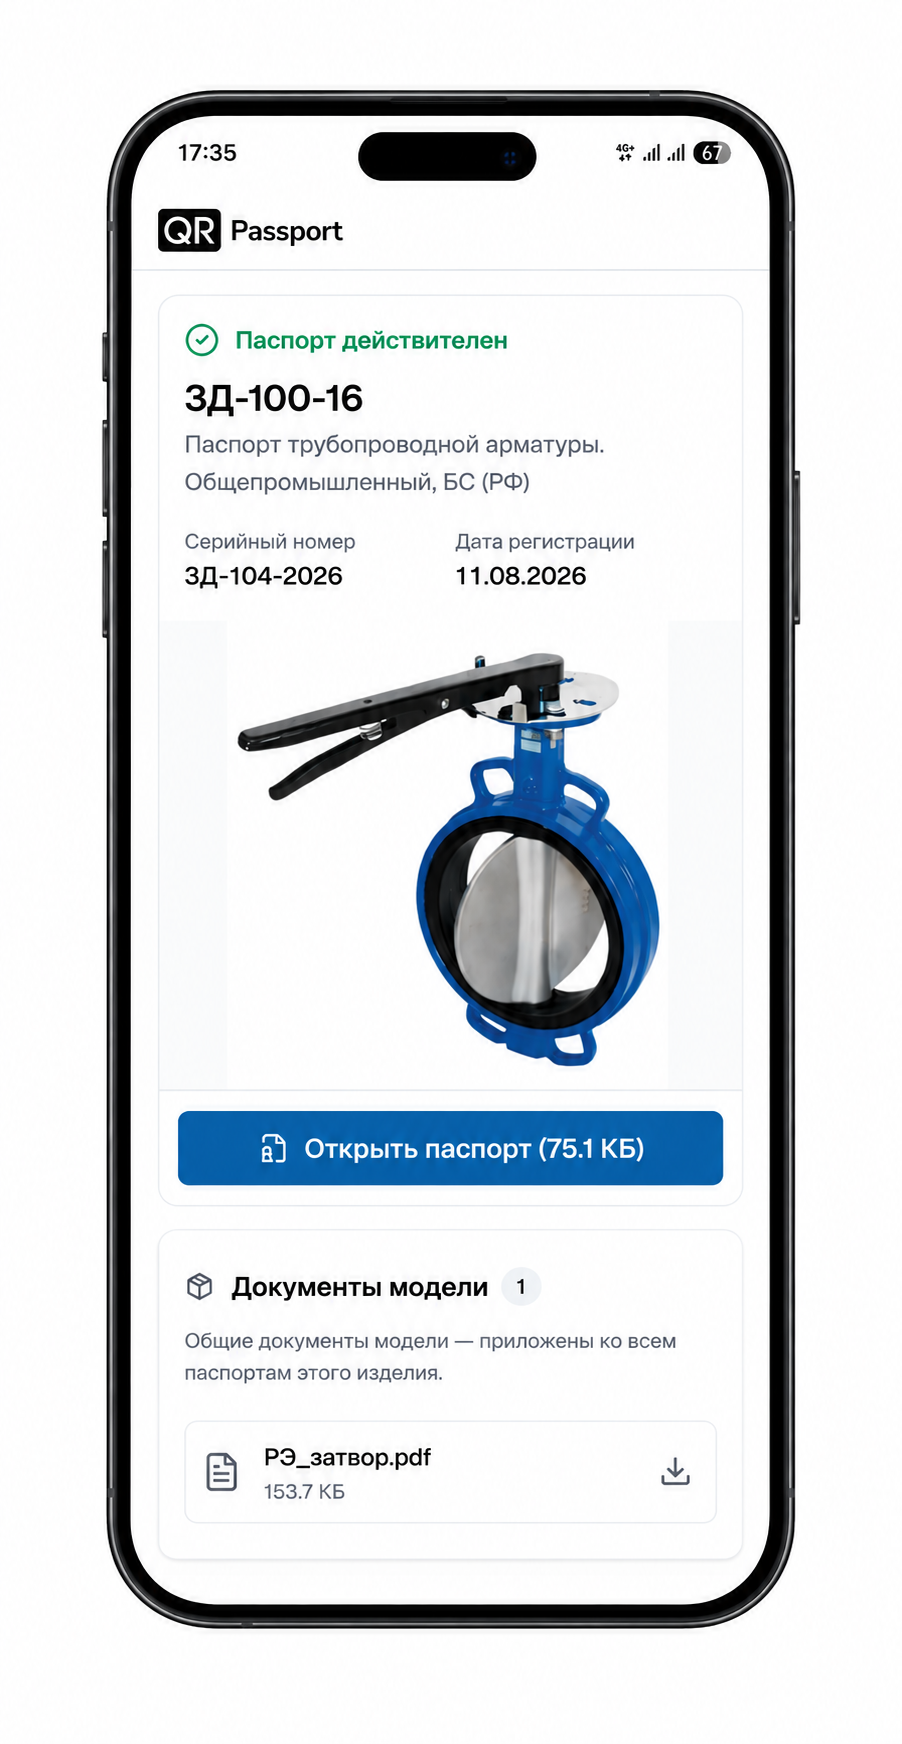
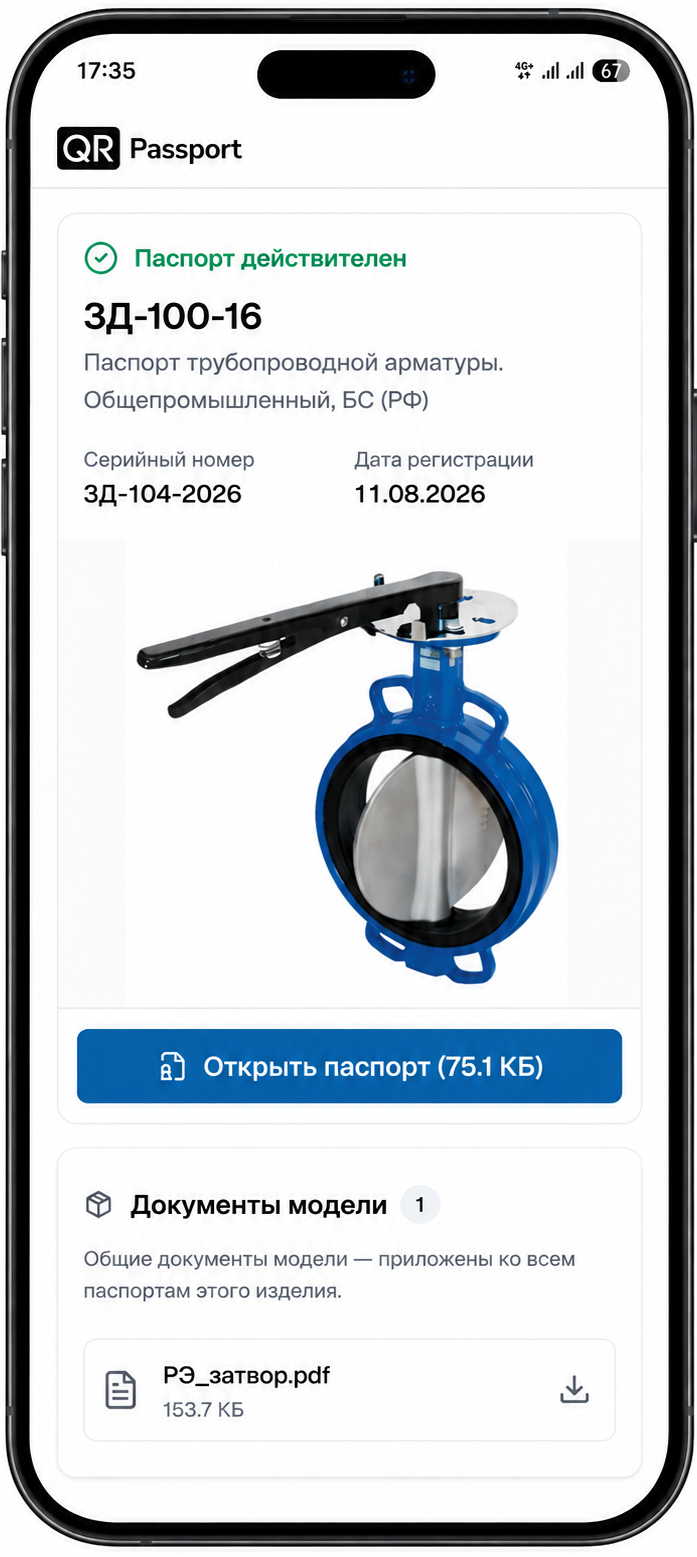
скриншот 3

diff --git a/docs/_assets/style/custom.css b/docs/_assets/style/custom.css
@@ -122,7 +122,7 @@ img[src*="logo.svg"] {
 
 /* ===== Телефон с QR-скриншотом: уменьшаем в 2 раза ===== */
 .dc-doc-page__main img[src*="products_qr_phone"] {
-  width: 400px;
+  width: 360px;
   max-width: 100%;
   display: block;
   margin: 16px auto;
